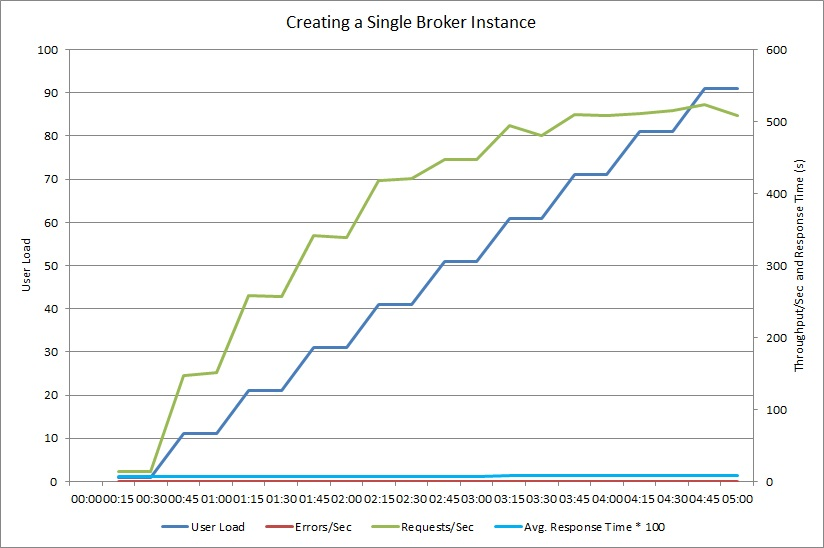
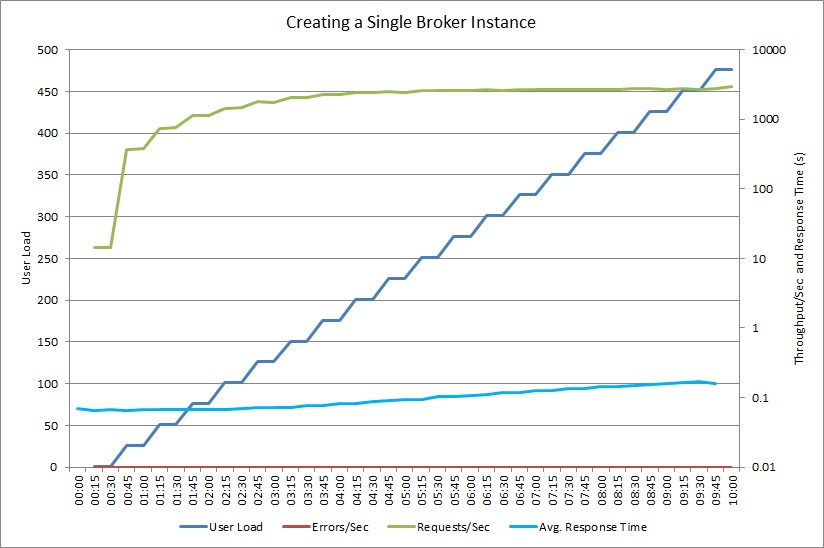
Updated graphs and narrative. Telemtry still missing

diff --git a/TooManyInstances/docs/TooManyInstances.md b/TooManyInstances/docs/TooManyInstances.md
@@ -191,15 +191,11 @@ During periods of stress, operations that continually create and destroy large o
 
 ### Performing load-testing
 
-You can use load-testing based on workloads that emulate the typical sequence of operations that users might perform to help identify which parts of a system suffer with resource-exhaustion under varying loads. You should perform these tests in a controlled environment rather than the production system. The following graph shows the throughput of requests directed at the `NewInstancePerRequest` controller in the sample application as the user load is increased up to 100  concurrent users. Note that as the user load passes 60 concurrent users the number of failed requests suddenly increases. These failures are reported by the load test as HTTP 500 (Internal Server) errors.
+You can use load-testing based on workloads that emulate the typical sequence of operations that users might perform to help identify which parts of a system suffer with resource-exhaustion under varying loads. You should perform these tests in a controlled environment rather than the production system. The following graph shows the throughput of requests directed at the `NewInstancePerRequest` controller in the sample application as the user load is increased up to 450  concurrent users. Note that as the user load passes 200 concurrent users the number of failed requests suddenly increases. These failures are reported by the load test as HTTP 500 (Internal Server) errors.
 
 ![Throughput of the sample application creating a new instance of an HttpClient object for each requests][throughput-new-instance]
 
-----------
-
-**Note:** In this graph, the scale of the average response time is ten times that of the requests/second and errors/second data. This scaling makes the response times more visible on the graph.
-
-----------
+In this graph, the scale of the throughput and response times is logarithmic to enable these measures to be shown effectively on the graph. After the initial loading the system stabilizes, supporting approximately 300 requests/second (oscillating between successful and failed requests) with an average response time of between 0.5 and 1 second per request.
 
 ### Reviewing the code
 
@@ -256,7 +252,7 @@ The system should should be more scalable, offer a higher throughput (the system
 
 ![Key indicators load-test results for the Chunky API in the Chatty I/O sample application][throughput-single-instance]
 
-No errors were reported, and the system was amply able to handle an increasing load with relatively little change in the response time.
+No errors were reported, and the system was amply able to handle an increasing load (up to nearly 3000 requests per second) with relatively low response time (between 0.07 and 0.15 seconds on average per request).
 
 ## Related resources
 
